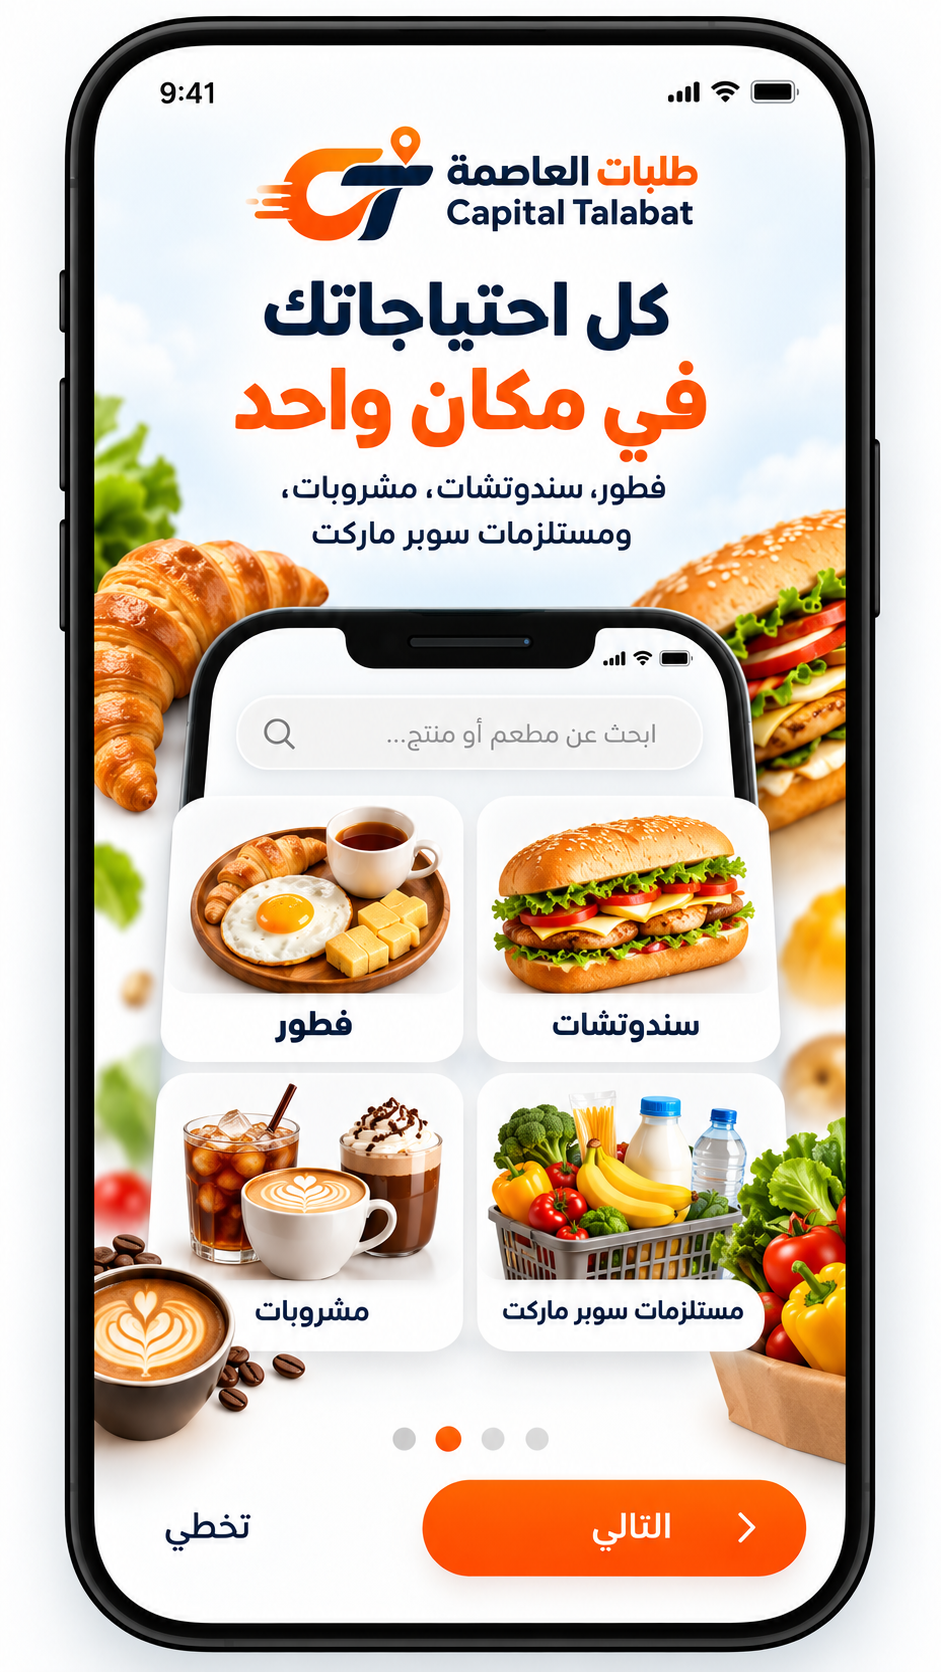
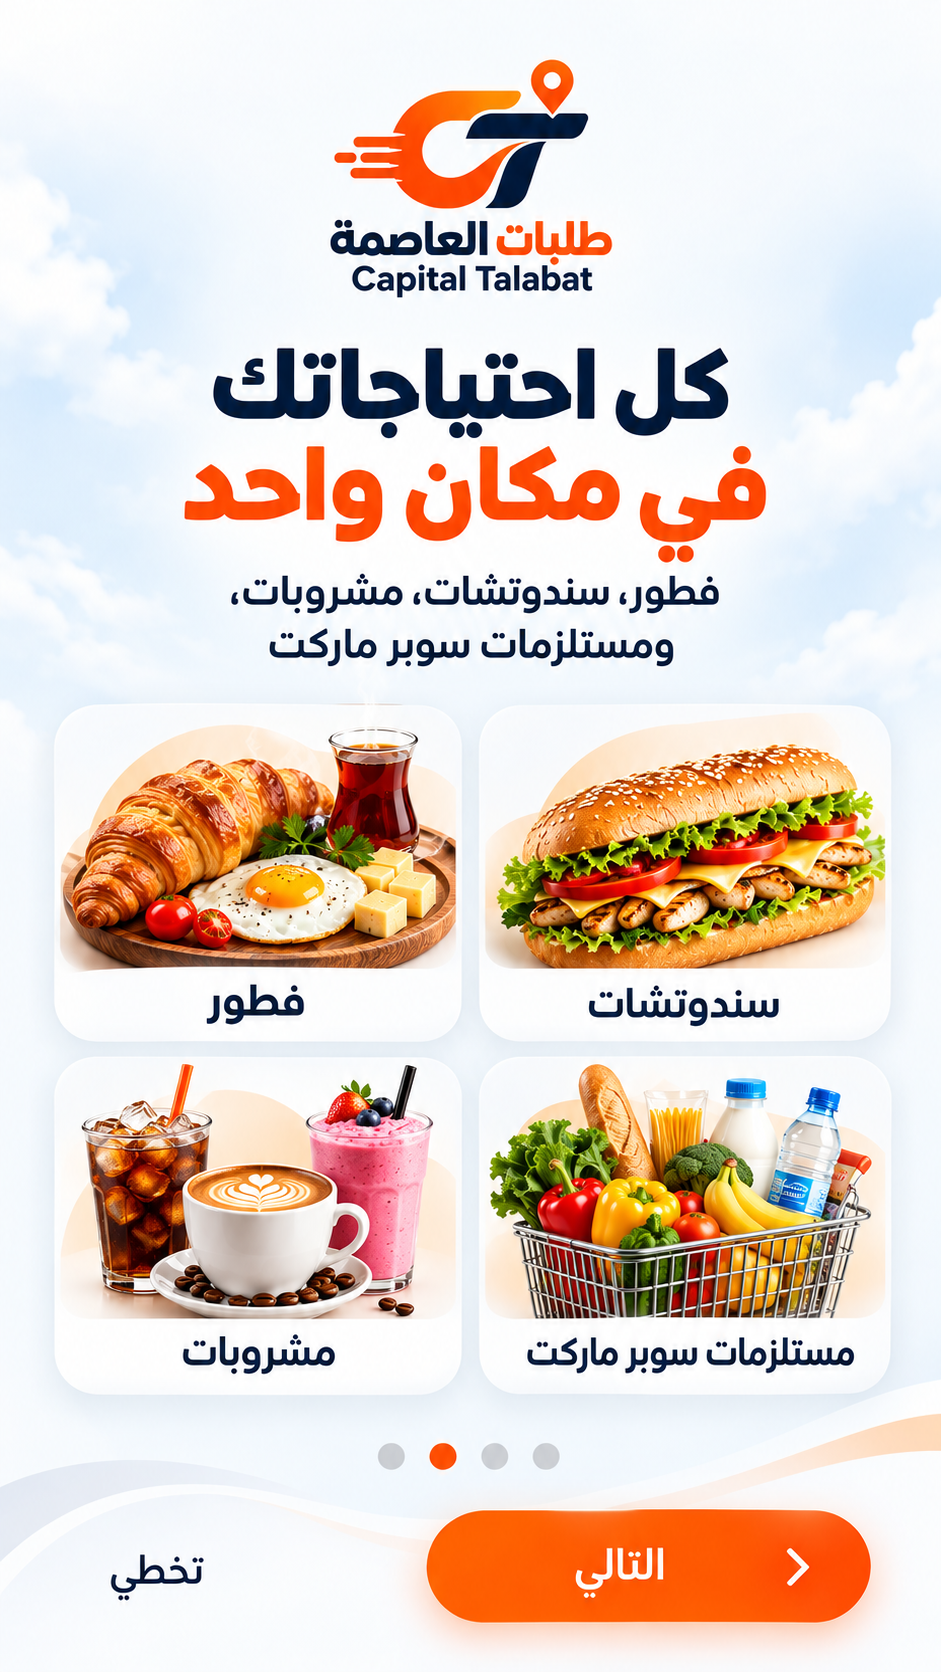
feat(mobile): update onboarding assets with unified image buttons and secure splash screen

diff --git a/mobile_app/lib/screens/onboarding/onboarding_screen.dart b/mobile_app/lib/screens/onboarding/onboarding_screen.dart
@@ -1,6 +1,4 @@
 import 'package:flutter/material.dart';
-import 'package:google_fonts/google_fonts.dart';
-import 'package:smooth_page_indicator/smooth_page_indicator.dart';
 import '../../core/constants/colors.dart';
 import '../auth/role_select_login_screen.dart';
 
@@ -25,7 +23,8 @@ class _OnboardingScreenState extends State<OnboardingScreen> {
   void _navigateToLogin() {
     Navigator.of(context).pushReplacement(
       PageRouteBuilder(
-        pageBuilder: (context, animation, secondaryAnimation) => const RoleSelectLoginScreen(),
+        pageBuilder: (context, animation, secondaryAnimation) =>
+            const RoleSelectLoginScreen(),
         transitionsBuilder: (context, animation, secondaryAnimation, child) {
           return FadeTransition(opacity: animation, child: child);
         },
@@ -34,130 +33,135 @@ class _OnboardingScreenState extends State<OnboardingScreen> {
     );
   }
 
+  void _goToNextPage() {
+    if (_currentPage < _onboardingImages.length - 1) {
+      _controller.nextPage(
+        duration: const Duration(milliseconds: 350),
+        curve: Curves.easeInOut,
+      );
+    } else {
+      _navigateToLogin();
+    }
+  }
+
+  @override
+  void dispose() {
+    _controller.dispose();
+    super.dispose();
+  }
+
+  Widget _buildInteractivePage(int index) {
+    // 941 x 1672 canvas matches the high-res onboarding asset resolution
+    return Center(
+      child: FittedBox(
+        fit: BoxFit.contain,
+        alignment: Alignment.center,
+        child: SizedBox(
+          width: 941,
+          height: 1672,
+          child: Stack(
+            children: [
+              // High-resolution Onboarding Graphic
+              Image.asset(
+                _onboardingImages[index],
+                width: 941,
+                height: 1672,
+                fit: BoxFit.fill,
+              ),
+
+              // Overlay Interactive Tap Targets directly on the image's buttons
+              if (index == 0) ...[
+                // Screen 1: "ابدأ الآن" full-width orange pill button
+                Positioned(
+                  left: 110,
+                  top: 1400,
+                  width: 720,
+                  height: 210,
+                  child: Material(
+                    color: Colors.transparent,
+                    child: InkWell(
+                      borderRadius: BorderRadius.circular(105),
+                      splashColor: Colors.white.withValues(alpha: 0.3),
+                      highlightColor: Colors.white.withValues(alpha: 0.15),
+                      onTap: _goToNextPage,
+                    ),
+                  ),
+                ),
+              ] else if (index == 1 || index == 2) ...[
+                // Screen 2 & 3: "تخطي" on bottom left
+                Positioned(
+                  left: 60,
+                  top: 1480,
+                  width: 270,
+                  height: 160,
+                  child: Material(
+                    color: Colors.transparent,
+                    child: InkWell(
+                      borderRadius: BorderRadius.circular(30),
+                      splashColor: AppColors.primary.withValues(alpha: 0.2),
+                      highlightColor: AppColors.primary.withValues(alpha: 0.1),
+                      onTap: _navigateToLogin,
+                    ),
+                  ),
+                ),
+
+                // Screen 2 & 3: "التالي" orange pill button on bottom right
+                Positioned(
+                  left: 420,
+                  top: 1430,
+                  width: 460,
+                  height: 200,
+                  child: Material(
+                    color: Colors.transparent,
+                    child: InkWell(
+                      borderRadius: BorderRadius.circular(100),
+                      splashColor: Colors.white.withValues(alpha: 0.3),
+                      highlightColor: Colors.white.withValues(alpha: 0.15),
+                      onTap: _goToNextPage,
+                    ),
+                  ),
+                ),
+              ] else if (index == 3) ...[
+                // Screen 4: "ابدأ الآن" full-width orange pill button
+                Positioned(
+                  left: 110,
+                  top: 1400,
+                  width: 720,
+                  height: 210,
+                  child: Material(
+                    color: Colors.transparent,
+                    child: InkWell(
+                      borderRadius: BorderRadius.circular(105),
+                      splashColor: Colors.white.withValues(alpha: 0.3),
+                      highlightColor: Colors.white.withValues(alpha: 0.15),
+                      onTap: _navigateToLogin,
+                    ),
+                  ),
+                ),
+              ],
+            ],
+          ),
+        ),
+      ),
+    );
+  }
+
   @override
   Widget build(BuildContext context) {
-    final bool isLastPage = _currentPage == _onboardingImages.length - 1;
-
     return Scaffold(
-      backgroundColor: Colors.white,
+      backgroundColor: const Color(0xFFF8FAFC),
       body: SafeArea(
-        child: Stack(
-          children: [
-            // Slide Pages with real images
-            PageView.builder(
-              controller: _controller,
-              itemCount: _onboardingImages.length,
-              onPageChanged: (index) {
-                setState(() {
-                  _currentPage = index;
-                });
-              },
-              itemBuilder: (context, index) {
-                return Padding(
-                  padding: const EdgeInsets.only(bottom: 90),
-                  child: Center(
-                    child: ClipRRect(
-                      borderRadius: BorderRadius.circular(24),
-                      child: Image.asset(
-                        _onboardingImages[index],
-                        fit: BoxFit.contain,
-                      ),
-                    ),
-                  ),
-                );
-              },
-            ),
-
-            // Top Header: Skip button
-            Positioned(
-              top: 10,
-              left: 20,
-              child: isLastPage
-                  ? const SizedBox.shrink()
-                  : TextButton(
-                      onPressed: _navigateToLogin,
-                      style: TextButton.styleFrom(
-                        foregroundColor: AppColors.navy,
-                        backgroundColor: AppColors.surfaceMuted,
-                        shape: RoundedRectangleBorder(
-                          borderRadius: BorderRadius.circular(16),
-                        ),
-                        padding: const EdgeInsets.symmetric(horizontal: 16, vertical: 8),
-                      ),
-                      child: Text(
-                        'تخطي',
-                        style: GoogleFonts.cairo(
-                          fontSize: 14,
-                          fontWeight: FontWeight.bold,
-                        ),
-                      ),
-                    ),
-            ),
-
-            // Bottom Navigation Bar with Dots & Next / Start Button
-            Positioned(
-              bottom: 16,
-              left: 24,
-              right: 24,
-              child: Row(
-                children: [
-                  // Page Dots Indicator
-                  SmoothPageIndicator(
-                    controller: _controller,
-                    count: _onboardingImages.length,
-                    effect: const ExpandingDotsEffect(
-                      activeDotColor: AppColors.primary,
-                      dotColor: AppColors.border,
-                      dotHeight: 8,
-                      dotWidth: 8,
-                      expansionFactor: 3.5,
-                      spacing: 6,
-                    ),
-                  ),
-
-                  const Spacer(),
-
-                  // Action Button (Next or Start Now)
-                  ElevatedButton(
-                    onPressed: () {
-                      if (isLastPage) {
-                        _navigateToLogin();
-                      } else {
-                        _controller.nextPage(
-                          duration: const Duration(milliseconds: 350),
-                          curve: Curves.easeInOut,
-                        );
-                      }
-                    },
-                    style: ElevatedButton.styleFrom(
-                      backgroundColor: AppColors.primary,
-                      foregroundColor: Colors.white,
-                      minimumSize: const Size(120, 46),
-                      shape: RoundedRectangleBorder(
-                        borderRadius: BorderRadius.circular(18),
-                      ),
-                      padding: const EdgeInsets.symmetric(horizontal: 22, vertical: 12),
-                      elevation: 3,
-                    ),
-                    child: Row(
-                      mainAxisSize: MainAxisSize.min,
-                      children: [
-                        Text(
-                          isLastPage ? 'ابدأ الآن' : 'التالي',
-                          style: GoogleFonts.cairo(
-                            fontSize: 15,
-                            fontWeight: FontWeight.bold,
-                          ),
-                        ),
-                        const SizedBox(width: 6),
-                        const Icon(Icons.arrow_forward_ios_rounded, size: 14),
-                      ],
-                    ),
-                  ),
-                ],
-              ),
-            ),
-          ],
+        child: PageView.builder(
+          controller: _controller,
+          itemCount: _onboardingImages.length,
+          onPageChanged: (index) {
+            setState(() {
+              _currentPage = index;
+            });
+          },
+          itemBuilder: (context, index) {
+            return _buildInteractivePage(index);
+          },
         ),
       ),
     );

diff --git a/mobile_app/lib/screens/splash/splash_screen.dart b/mobile_app/lib/screens/splash/splash_screen.dart
@@ -20,9 +20,9 @@ class _SplashScreenState extends State<SplashScreen>
   int _currentStepIndex = 0;
 
   final List<String> _loadingSteps = [
-    'تجهيز قائمة الفود كورت والسوبر ماركت',
-    'مزامنة مقرات الـ 34 وزارة بالحي الحكومي',
-    'تفعيل مصادقة Google Firebase ومحفظة الموظف',
+    'تهيئة خدمات وقوائم الحي الحكومي',
+    'مزامنة المتاجر والمطاعم المعتمدة',
+    'تأمين الاتصال وتشفير بيانات الطلب',
   ];
 
   @override
@@ -210,13 +210,13 @@ class _SplashScreenState extends State<SplashScreen>
               ),
             ),
 
-            // Footer: "خدمة التوصيل السريع لمكاتب الـ 34 وزارة وهيئة حكومية"
+            // Footer: "خدمة التوصيل السريع للحي الحكومي بالعاصمة الإدارية"
             Positioned(
               bottom: 24,
               left: 20,
               right: 20,
               child: Text(
-                'خدمة التوصيل السريع لمكاتب الـ 34 وزارة وهيئة حكومية',
+                'خدمة التوصيل السريع للحي الحكومي بالعاصمة الإدارية',
                 textAlign: TextAlign.center,
                 style: GoogleFonts.cairo(
                   fontSize: 11,
